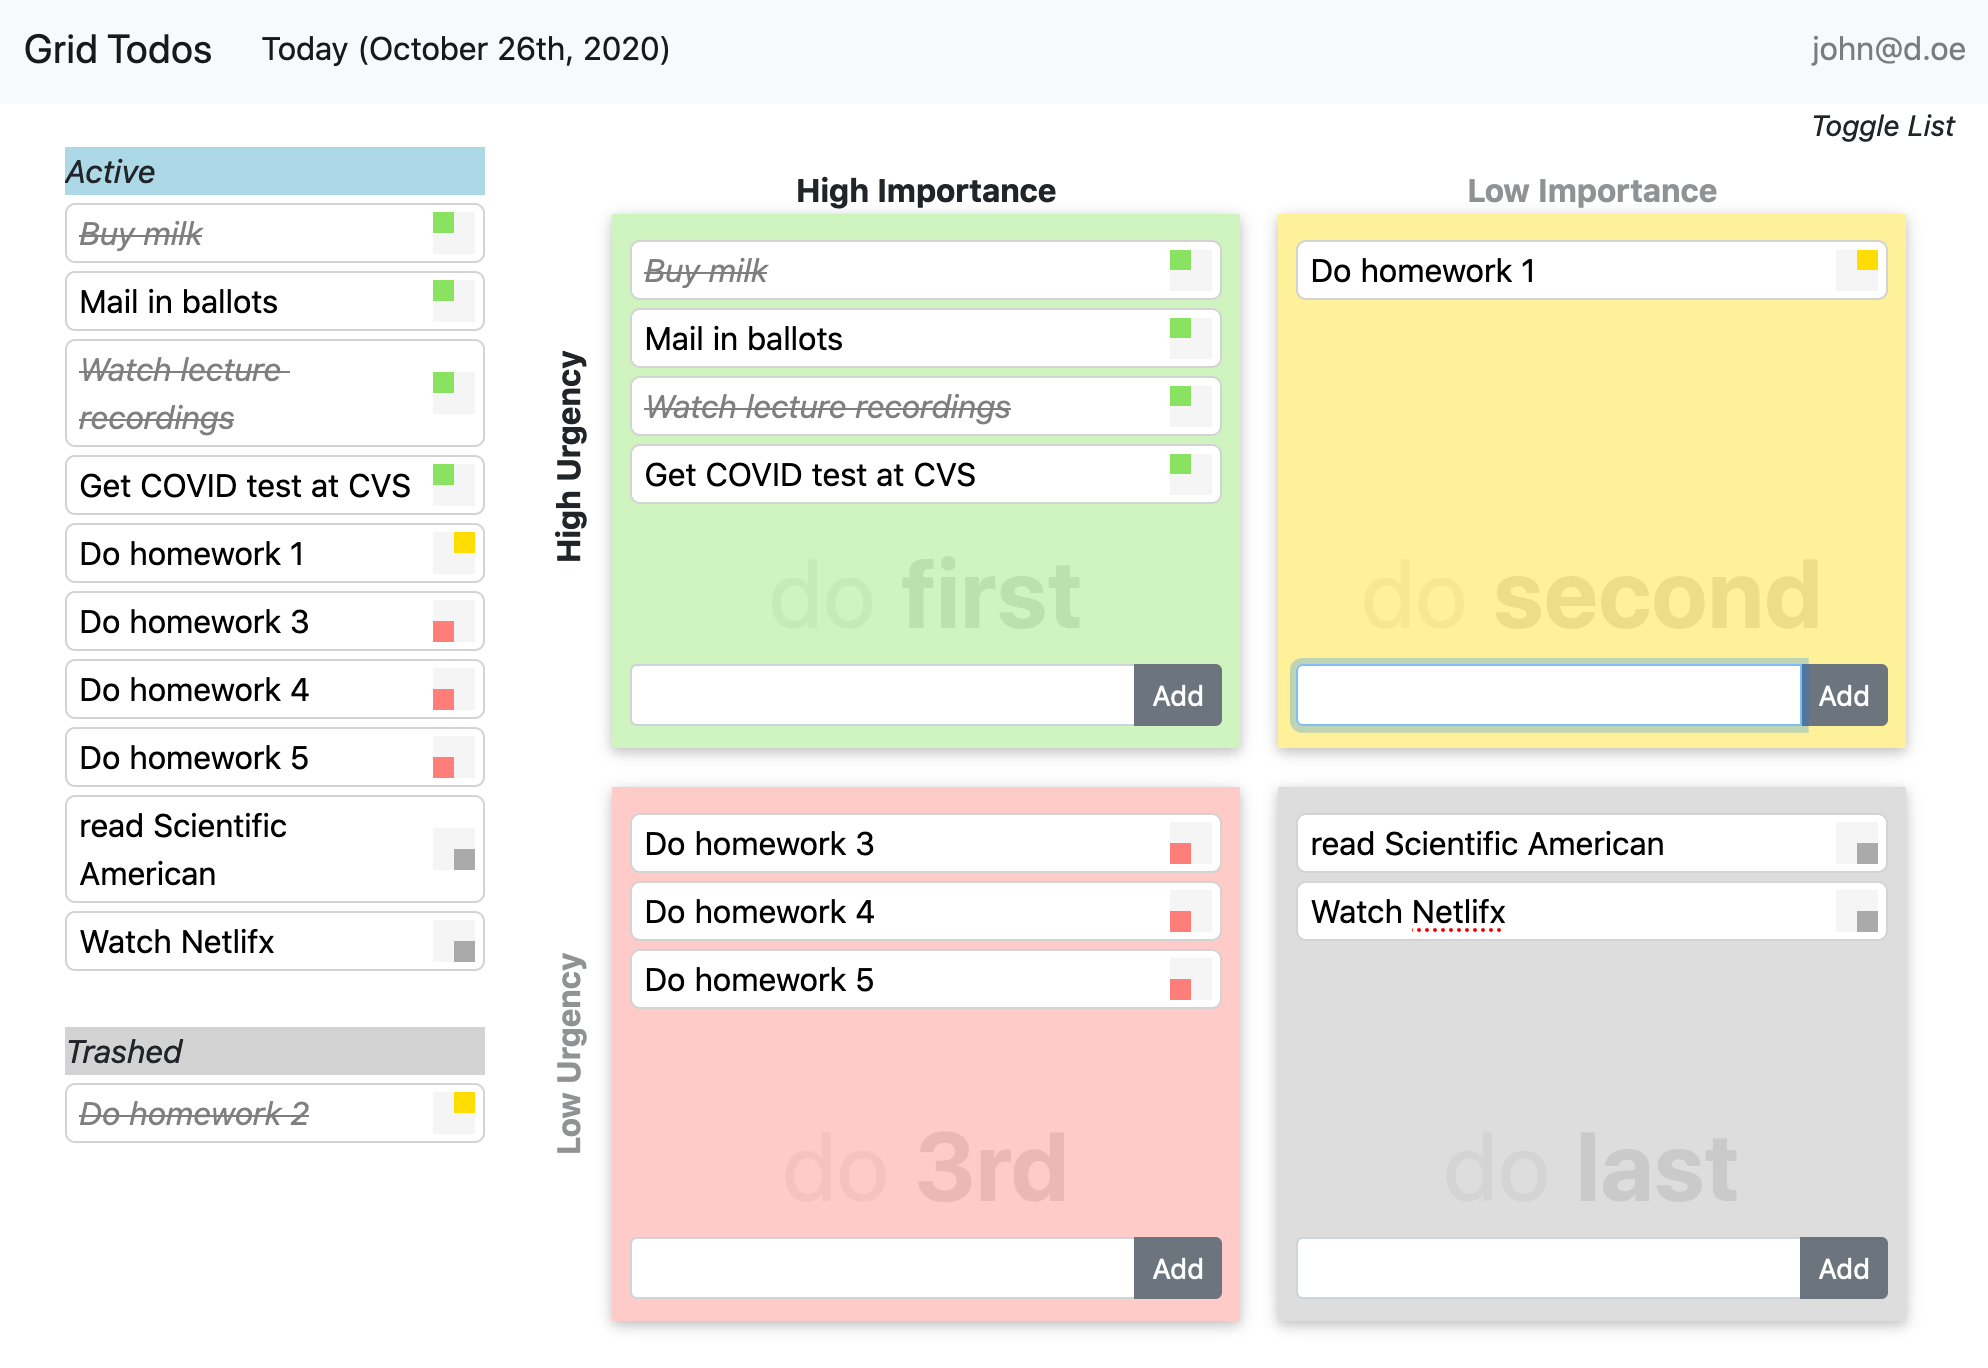
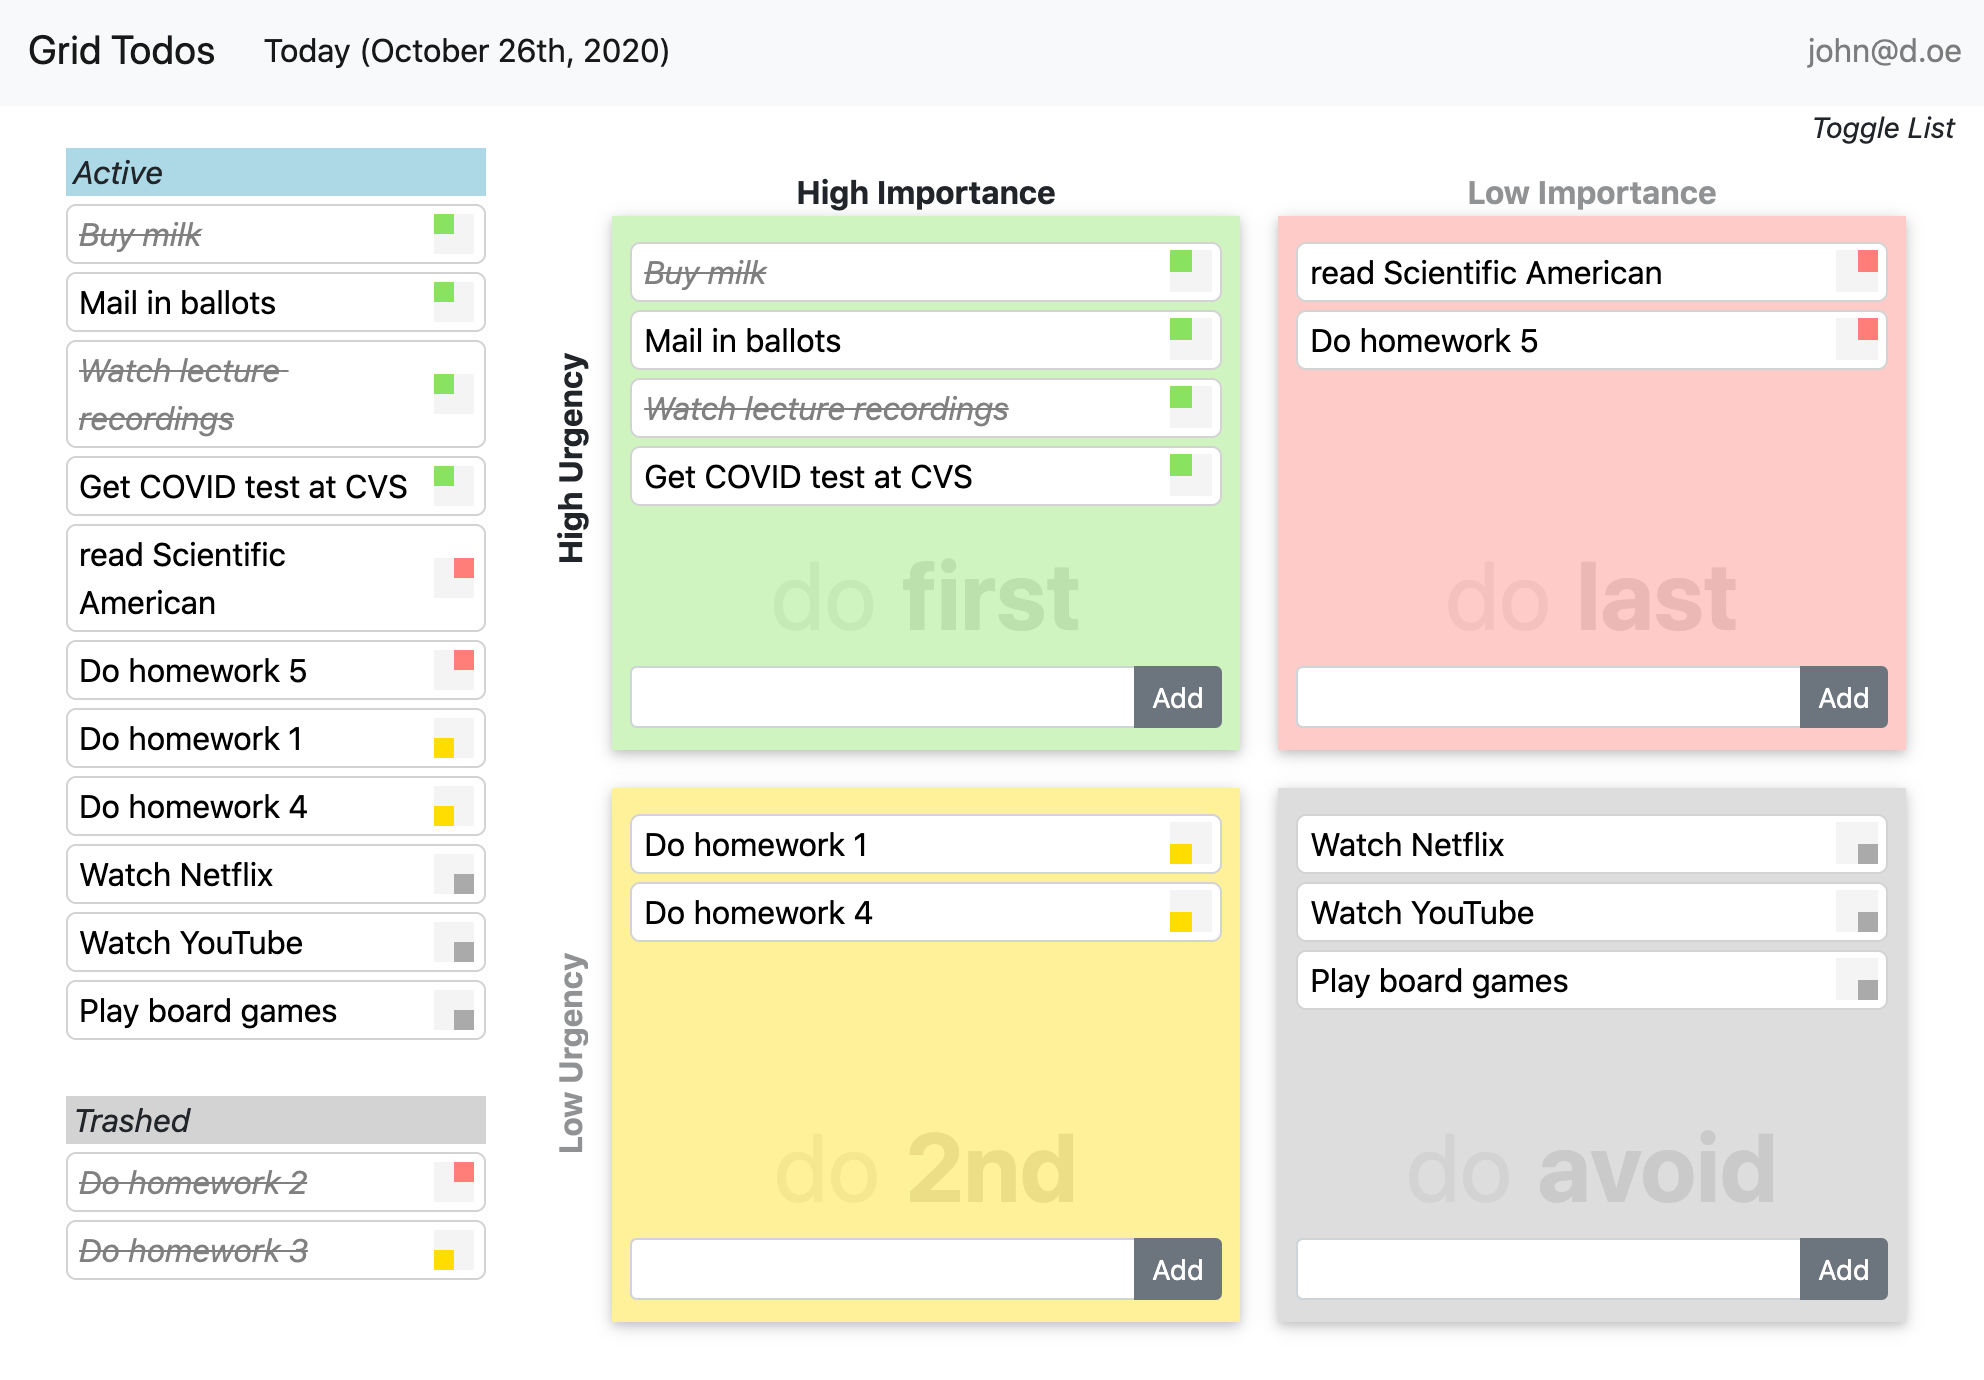
color tweaks

diff --git a/src/containers/Layout/Block/Block.tsx b/src/containers/Layout/Block/Block.tsx
@@ -76,12 +76,12 @@ const Block: React.FC<Props> = ({ important, urgent }: Props) => {
   const getBackgroundText = (): string => {
     if (important && urgent) {
       return 'first'; // ordinal(1);
-    } else if (!important && urgent) {
-      return 'second'; // ordinal(2);
     } else if (important && !urgent) {
-      return ordinal(3);
+      return ordinal(2); // 'second'
+    } else if (!important && urgent) {
+      return 'last'; // ordinal(3);
     } else {
-      return 'last';
+      return 'avoid';
     }
   };
 

diff --git a/src/shared/constants.ts b/src/shared/constants.ts
@@ -2,8 +2,8 @@ export const APP_NAME_FULL = 'Grid Todos';
 export const APP_NAME_SHORT = 'gtds';
 
 export const colors = {
-  FirstQuadrant: '#FFDD00', //'#FFFC79',
+  FirstQuadrant: '#FF7E79',
   SecondQuadrant: '#89e360',
-  ThirdQuadrant: '#FF7E79',
+  ThirdQuadrant: '#FFDD00', //'#FFFC79',
   FourthQuadrant: '#AAAAAA',
 };
